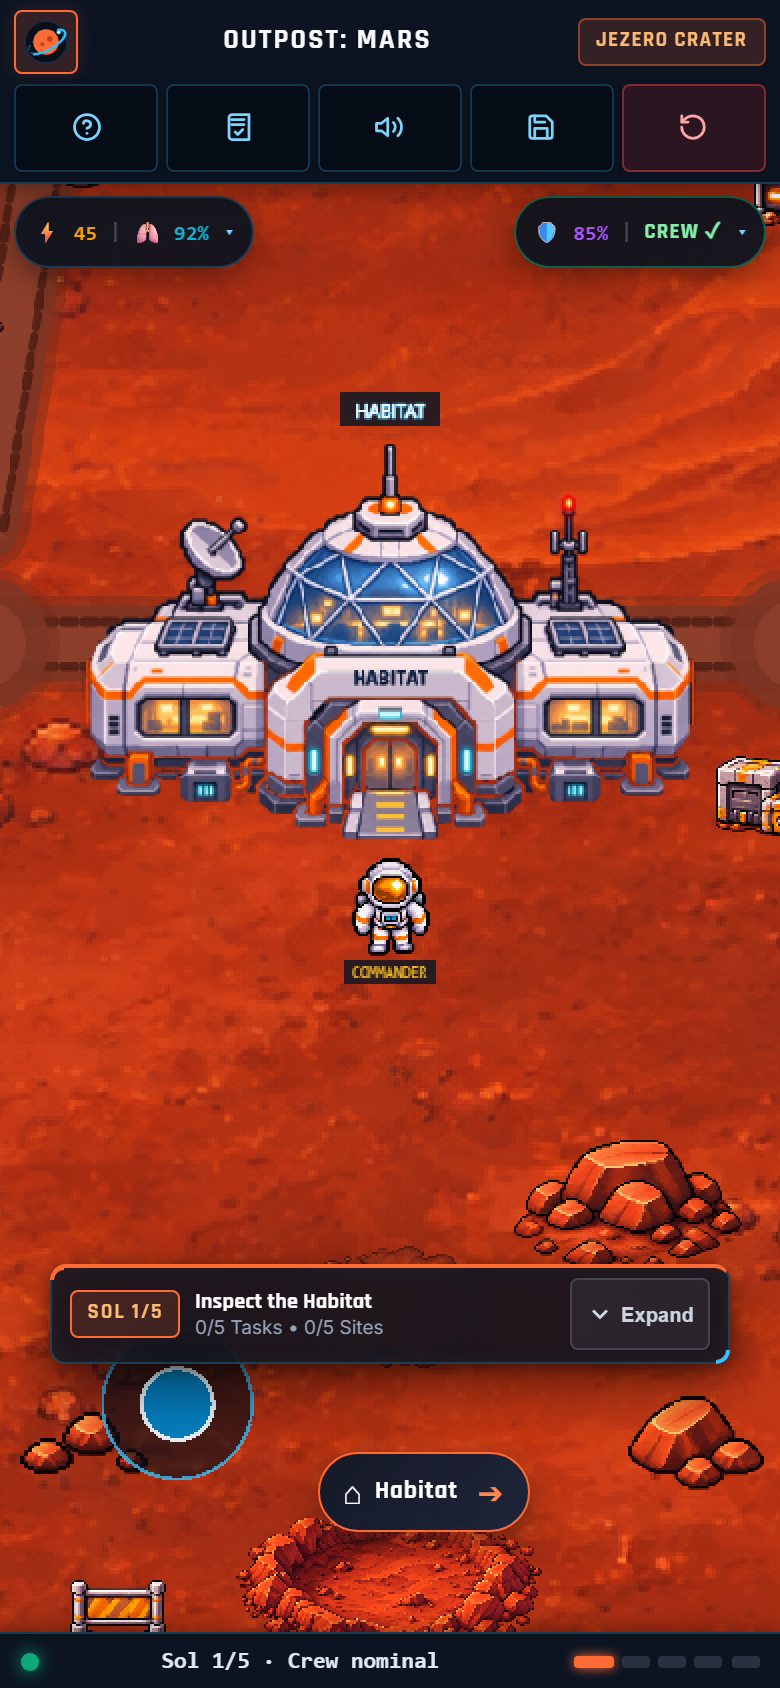
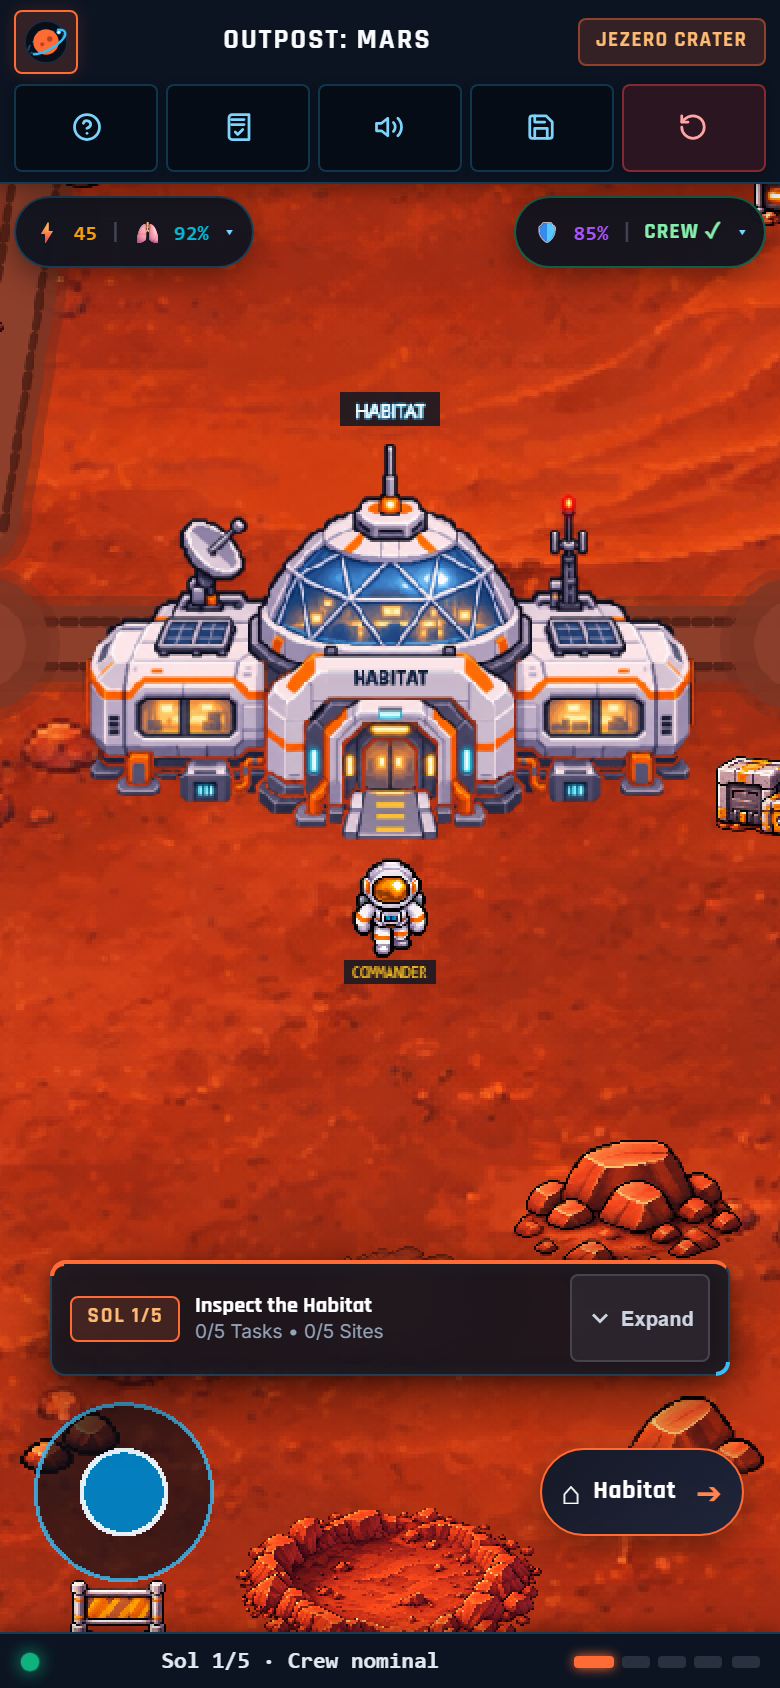
docs: refresh post-submission mobile README screenshot

Changed region(s): [[0.0308, 0.7393, 0.9538, 0.955], [0.4308, 0.4929, 0.5538, 0.5853]]

diff --git a/README.md b/README.md
@@ -31,6 +31,8 @@
 > **Post-Submission Development Note**
 >
 > The mobile-responsive experience and subsequent interface refinements were developed after the NASA Space Apps Challenge submission deadline as part of the project's continued development. These improvements are included in this repository's ongoing development and should not be confused with the original submitted version.
+>
+> The desktop and science showcase visuals elsewhere in this README are retained unchanged. The mobile gameplay image in the section below is a fresh post-submission capture of the refined interface, not a screenshot of the original submission.
 
 ---
 
@@ -59,7 +61,7 @@
    - [NASA DONKI Space Weather Crisis & Mission Debrief](#nasa-donki-space-weather-crisis--mission-debrief)
    - [Interactive NASA Science Challenges](#interactive-nasa-science-challenges)
    - [Atmospheric Sci-Fi Audio Engine](#atmospheric-sci-fi-audio-engine)
-4. [Responsive Mobile Gameplay & Touch Controls](#responsive-mobile-gameplay--touch-controls)
+4. [Post-Submission Mobile Gameplay & Touch Controls](#post-submission-mobile-gameplay--touch-controls)
    - [Stationary Virtual Joystick](#stationary-virtual-joystick)
    - [Proximity Interaction Dock](#proximity-interaction-dock)
    - [Compact HUD & Telemetry Drawers](#compact-hud--telemetry-drawers)
@@ -194,17 +196,15 @@ An immersive, subtle audio subsystem designed to enhance engagement without dist
 
 ---
 
-## 📱 Responsive Mobile Gameplay & Touch Controls
-
-*(Developed post-submission as part of the project's continued development roadmap)*
+## 📱 Post-Submission Mobile Gameplay & Touch Controls
 
 OUTPOST: MARS delivers a first-class mobile and tablet experience optimized across 320px to 432px portrait viewports and landscape orientations:
 
 <div align="center">
 
-<img src="public/assets/showcase/mobile-gameplay.png" alt="OUTPOST: MARS Mobile Gameplay — Touch Controls & Dedicated Control Dock" width="390" style="max-width: 100%; border-radius: 12px; border: 1.5px solid #ff6b35; box-shadow: 0 12px 36px rgba(0,0,0,0.7);" />
+<img src="public/assets/showcase/mobile-gameplay.png" alt="Post-submission OUTPOST: MARS mobile gameplay — joystick on the left and Habitat interaction button on the right, vertically aligned" width="390" style="max-width: 100%; border-radius: 12px; border: 1.5px solid #ff6b35; box-shadow: 0 12px 36px rgba(0,0,0,0.7);" />
 
-<p><em>OUTPOST: MARS Mobile Interface — Dedicated bottom control dock with fixed virtual joystick (bottom-left), proximity interaction pill (aligned on shared 70px horizontal centerline), compact telemetry status strip, and collapsible objectives card.</em></p>
+<p><em>Current mobile capture at 390 × 844 CSS pixels (2× image resolution): fixed left joystick and proximity-only Habitat button share a horizontal centerline, with the compact objectives card above the controls and the Sol footer below.</em></p>
 
 </div>
 
@@ -223,7 +223,7 @@ OUTPOST: MARS delivers a first-class mobile and tablet experience optimized acro
 - **Slide-Out Telemetry Drawers:** Tapping any status pill reveals detailed subsystem telemetry cards with glassmorphic styling, smooth animations, and backdrop blur.
 
 ### Conflict-Free Objectives Panel
-- **Non-Overlapping Bottom Anchor:** Objectives card anchors safely at $128\text{px}$ above the viewport bottom, leaving $14\text{px}$ clearance above the joystick.
+- **Non-Overlapping Bottom Anchor:** Objectives card stays centered above the control dock with a $14\text{px}$ gap from the joystick ring.
 - **Auto-Hiding Interaction Button:** When expanding the mission objectives drawer, the interaction prompt automatically hides (`display: none !important`), ensuring zero collision while preserving full joystick control.
 - **Sticky Collapse Controls:** Features a prominent, accessible `Hide` toggle button with full keyboard and touch focus handling.
 
